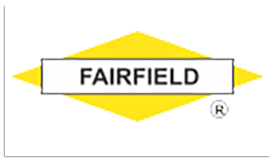
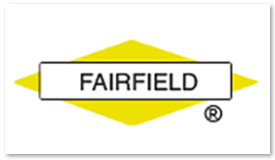
Added fairfield

Changed region(s): [[0.0, 0.0312, 1.0, 1.0]]

diff --git a/swsconferenceexpo/sponsors.html b/swsconferenceexpo/sponsors.html
@@ -161,6 +161,16 @@
 		  <strong><em>Booth 319</em></strong></p>
         <p><a href="http://www.dbiservices.com" target="_blank"><strong>www.dbiservices.com</strong></a></p>
       </div>
+		
+	<div class="clear"></div>
+      <div class="partner-logo"><img src="images/fairfield.png" alt="Fairfield Service Co. of Indiana LLC" width="200" height="200" class="responsive-img"/> </div>
+      <div class="partner-text">
+		  
+        <h5>Fairfield Service Co. of Indiana LLC</h5>
+        <p>Fairfield Service Co. of Indiana specializes in delivering high-quality products for the water and wastewater industry that are made in the U.S. Its deep-rake and clamp bucket manufactured equipment is hoisted on an automated bridge-crane mechanism, offering a complete system for handling grit and sludge for deep tunnels. It also manufactures headworks for grit processing and conveyors for bulk material handling for municipal wastewater treatment plants. <br>
+		  <strong><em>Booths 202 and 204</em></strong></p>
+        <p><a href="http://www.fairfieldservice.com" target="_blank"><strong>www.fairfieldservice.com</strong></a></p>
+      </div>
 					<div class="clear"></div>
       <div class="partner-logo"><img src="images/InformedInfrastructure.png" alt="Informed Infrastructure" width="200" height="200" class="responsive-img"/> </div>
       <div class="partner-text">
